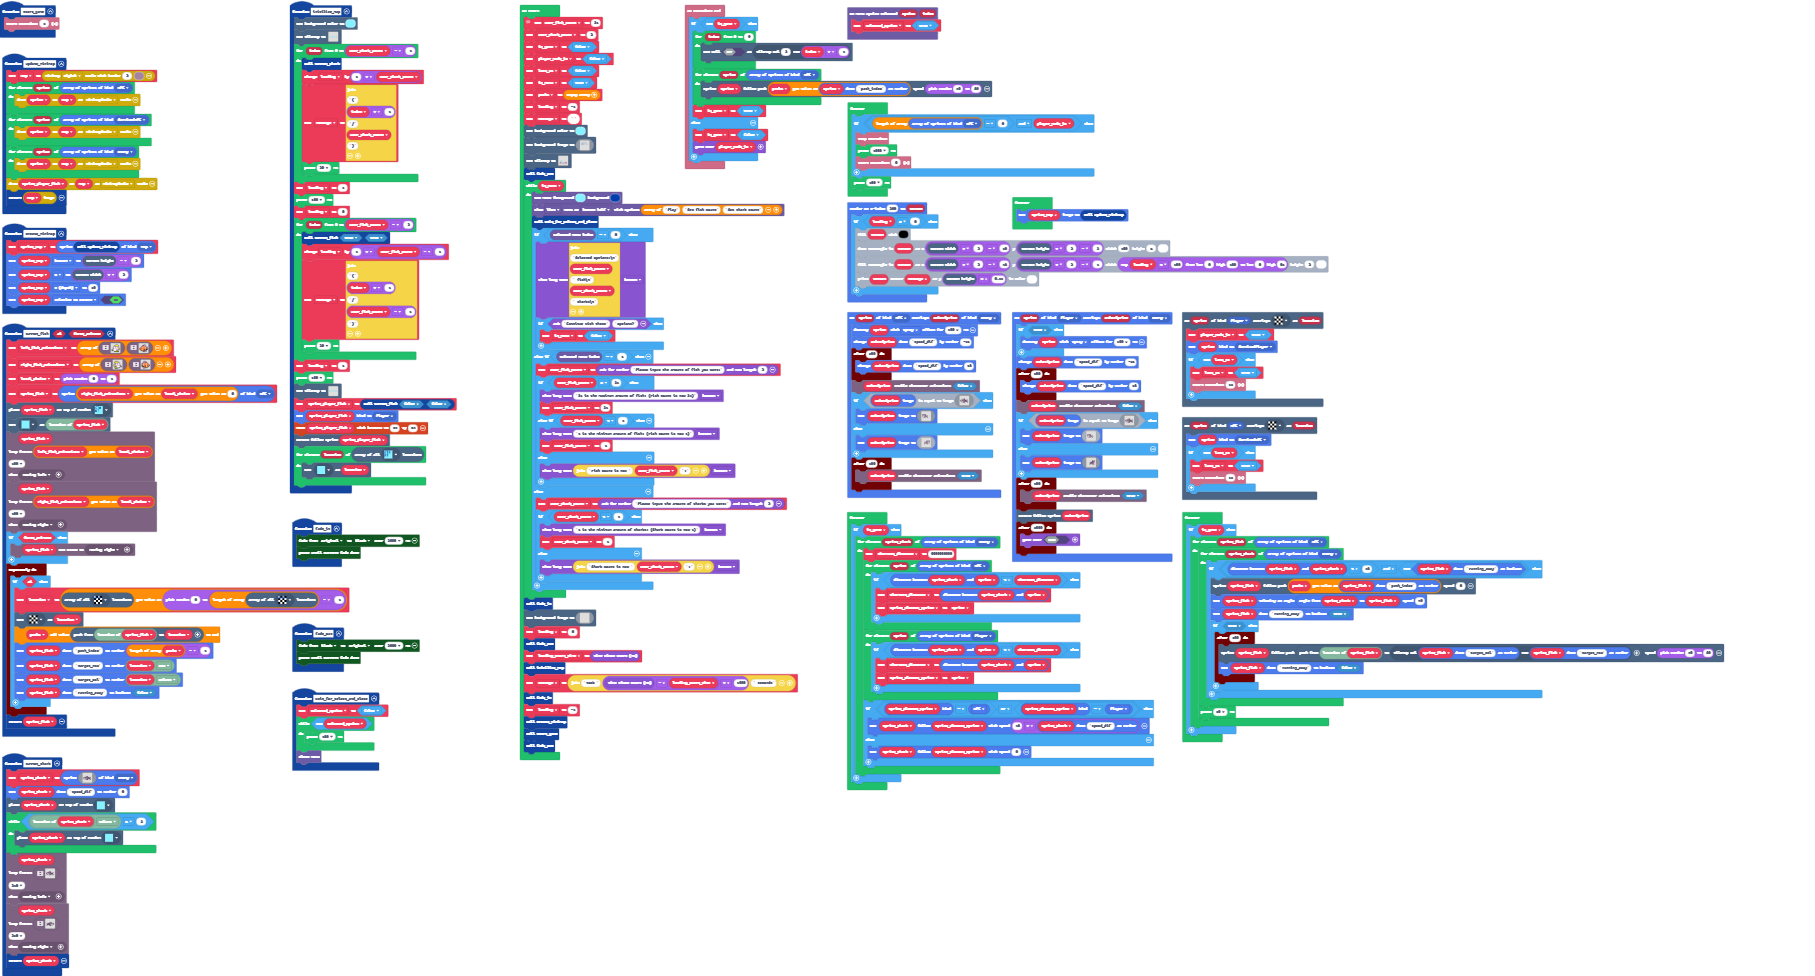
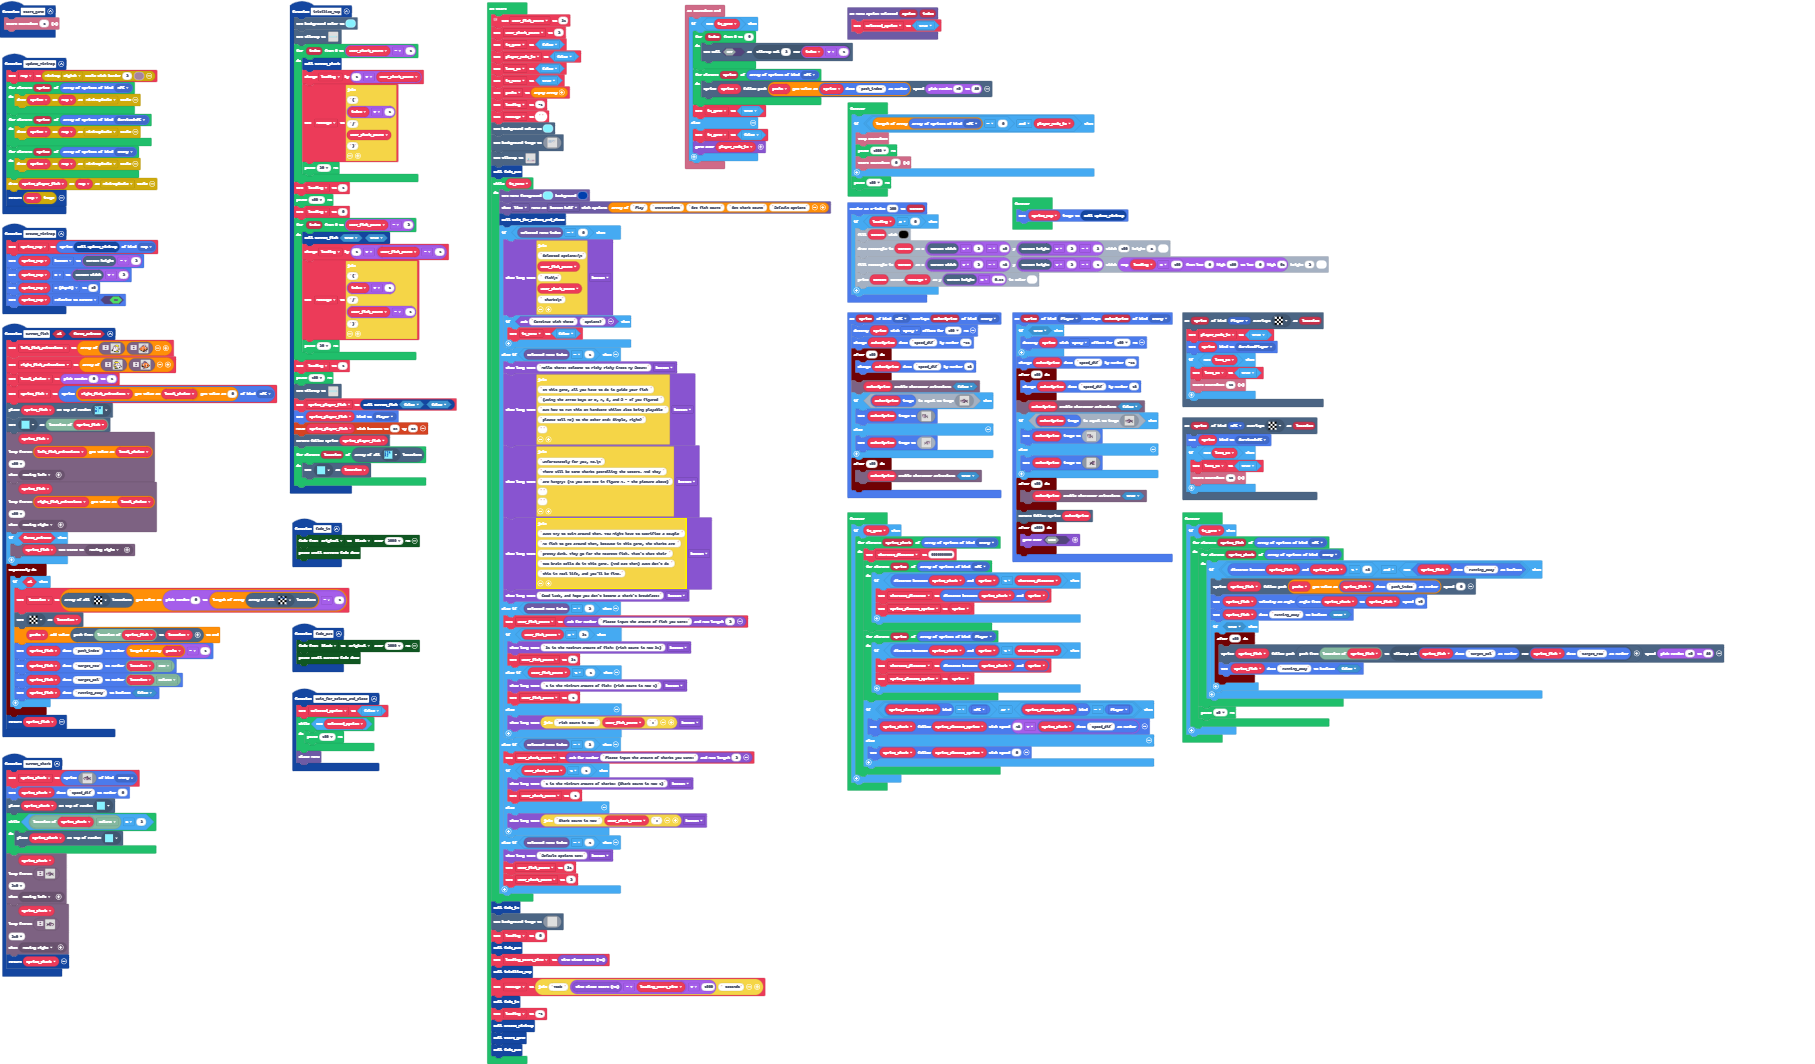
Even more menu things!

diff --git a/main.ts b/main.ts
@@ -619,7 +619,7 @@ tiles.setTilemap(tiles.createTilemap(hex`0a0008000000000000000000000000000000000
 fade_out()
 while (in_menu) {
     blockMenu.setColors(9, 8)
-    blockMenu.showMenu(["Play", "Set fish count", "Set shark count"], MenuStyle.List, MenuLocation.BottomHalf)
+    blockMenu.showMenu(["Play", "Instructions", "Set fish count", "Set shark count", "Default options"], MenuStyle.List, MenuLocation.BottomHalf)
     wait_for_select_and_close()
     if (blockMenu.selectedMenuIndex() == 0) {
         game.showLongText("Selected options:\\n" + user_fish_count + " fish\\n" + user_shark_count + " sharks\\n", DialogLayout.Bottom)
@@ -627,6 +627,12 @@ while (in_menu) {
             in_menu = false
         }
     } else if (blockMenu.selectedMenuIndex() == 1) {
+        game.showLongText("Hello there! Welcome to Fishy Fishy Cross My Ocean!", DialogLayout.Bottom)
+        game.showLongText("In this game, all you have to do is guide your fish " + "(Using the arrow keys or W, A, S, and D - If you figured " + "out how to run this on hardware whilst also being playable " + "please tell me) to the other end! Simple, right?" + "", DialogLayout.Bottom)
+        game.showLongText("Unfortunately for you, no.\\n" + "There will be some sharks patrolling the waters. And they " + "are hungry! (As you can see in figure A. - the picture above)" + "" + "", DialogLayout.Bottom)
+        game.showLongText("Just try to swim around them. You might have to sacrifice a couple " + "AI fish to get around them, because in this game, the sharks are " + "pretty dumb. They go for the nearest fish. That's what their " + "two brain cells do in this game. (And eat them) Just don't do " + "this in real life, and you'll be fine.", DialogLayout.Bottom)
+        game.showLongText("Good luck, and hope you don't become a shark's breakfast!", DialogLayout.Bottom)
+    } else if (blockMenu.selectedMenuIndex() == 2) {
         user_fish_count = game.askForNumber("Please input the amount of fish you want:", 2)
         if (user_fish_count > 31) {
             game.showLongText("31 is the maximum amount of fish! (Fish count is now 31)", DialogLayout.Bottom)
@@ -637,7 +643,7 @@ while (in_menu) {
         } else {
             game.showLongText("Fish count is now " + user_fish_count + "!", DialogLayout.Bottom)
         }
-    } else {
+    } else if (blockMenu.selectedMenuIndex() == 3) {
         user_shark_count = game.askForNumber("Please input the amount of sharks you want:", 2)
         if (user_shark_count < 1) {
             game.showLongText("1 is the minimum amount of sharks! (Shark count is now 1)", DialogLayout.Bottom)
@@ -645,6 +651,10 @@ while (in_menu) {
         } else {
             game.showLongText("Shark count is now " + user_shark_count + "!", DialogLayout.Bottom)
         }
+    } else if (blockMenu.selectedMenuIndex() == 4) {
+        game.showLongText("Default options set!", DialogLayout.Bottom)
+        user_fish_count = 31
+        user_shark_count = 2
     }
 }
 fade_in()
